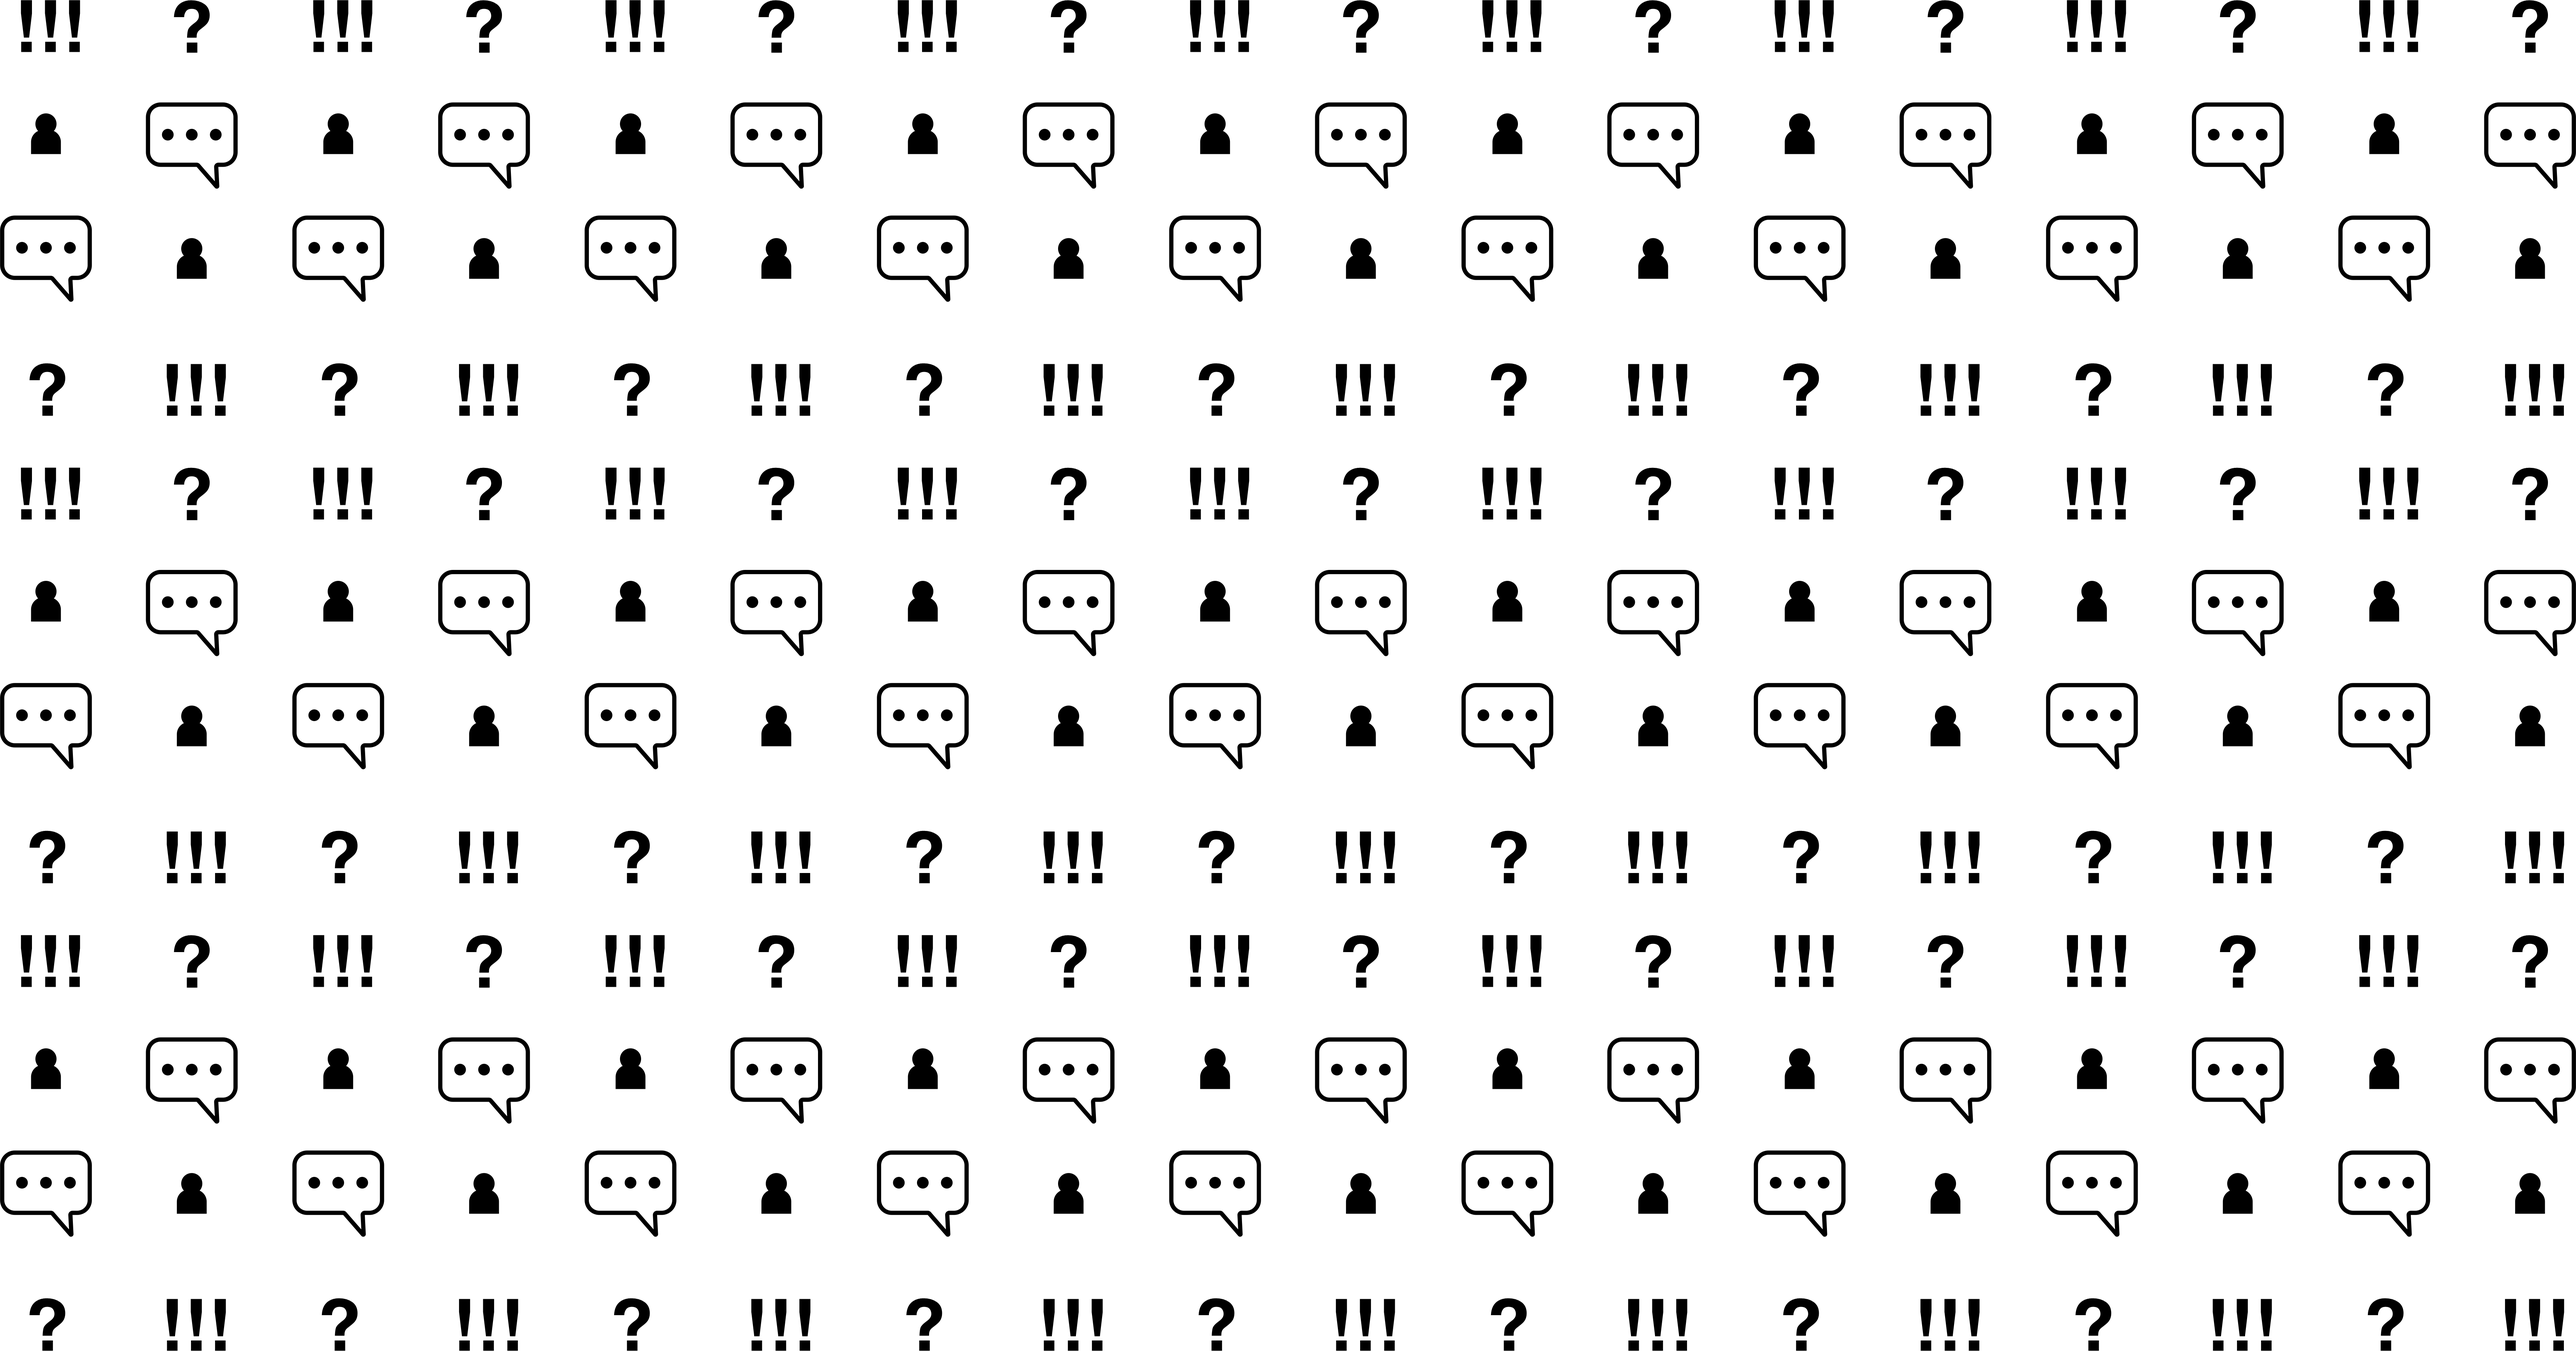
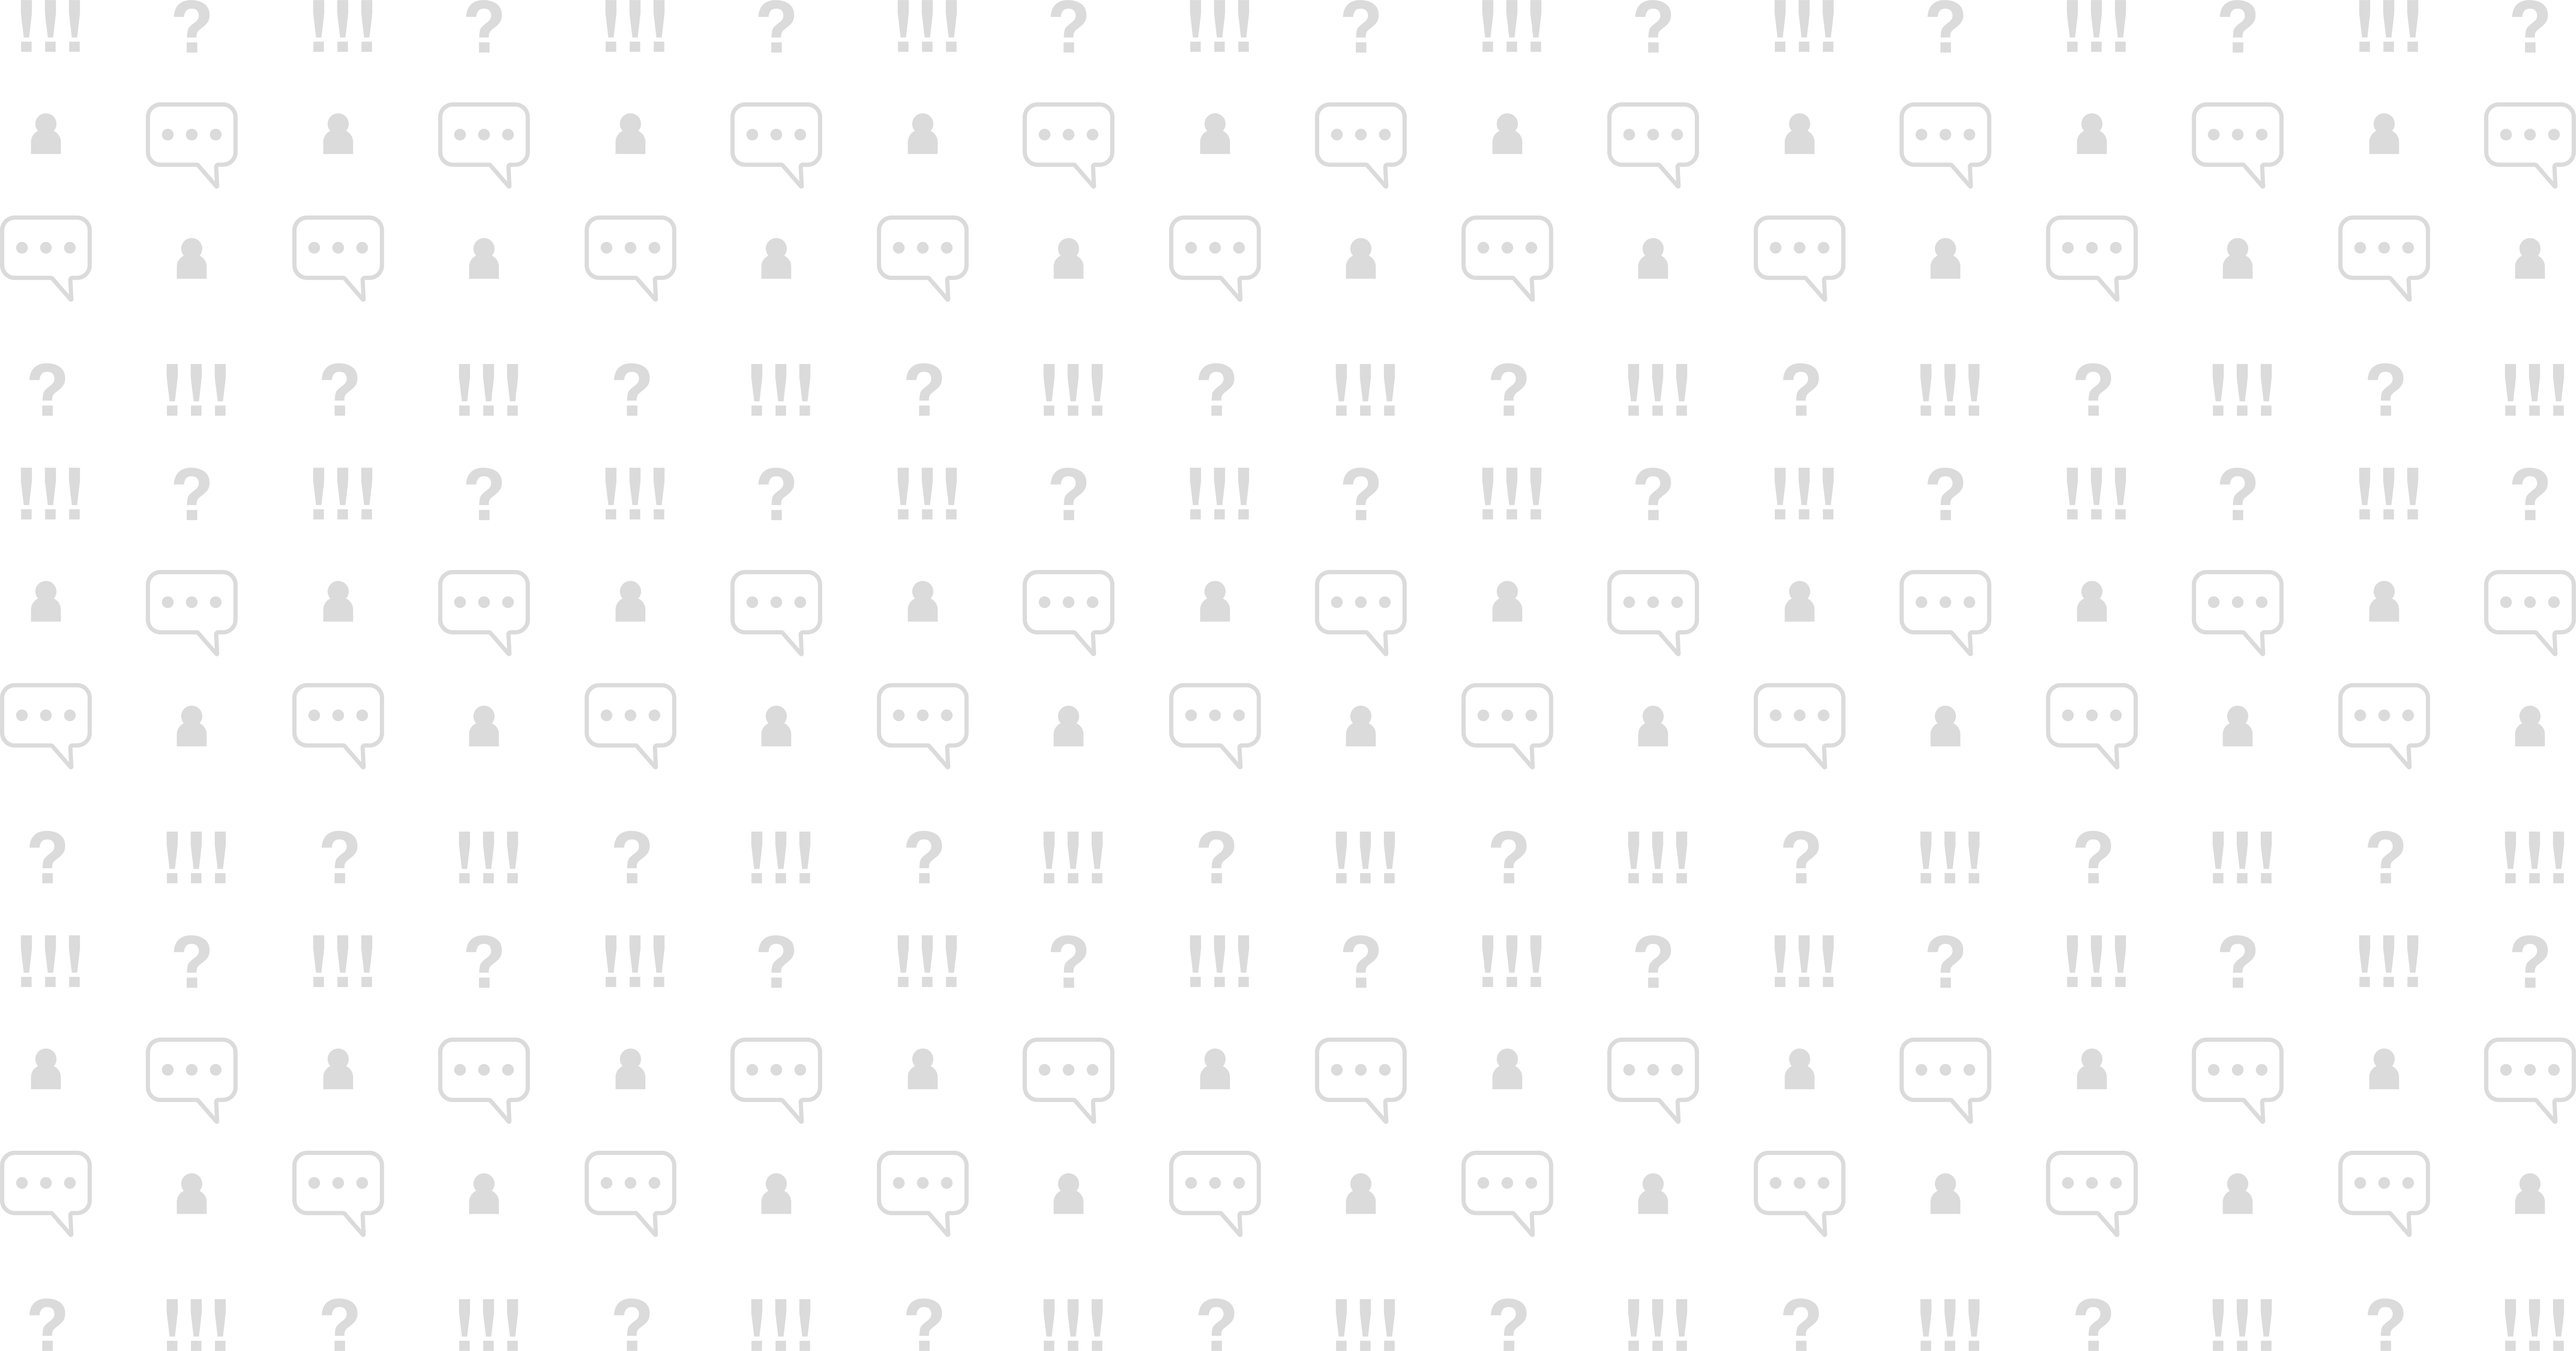
student bisa hapus post

diff --git a/App/assets/JS/script-feed.js b/App/assets/JS/script-feed.js
@@ -212,7 +212,7 @@ function attachEventListeners() {
 // ============================================
 function createPostHTML(post) {
     return `
-        <div class="post-card" data-post-id="${post.id}" data-is-owner="${post.is_owner || false}">
+        <div class="post-card" data-post-id="${post.id}" data-is-owner="${post.is_owner === true ? 'true' : 'false'}">
             <div class="post-header-container">
                 <div class="post-header">
                     <div class="post-user-info">
@@ -701,7 +701,8 @@ async function handleDeletePost(postId) {
             headers: { 'Content-Type': 'application/json' },
             body: JSON.stringify({ post_id: parseInt(postId) })
         });
-        const data = await res.json();
+        const text = await res.text();
+        const data = JSON.parse(text);
 
         if (data.success) {
             const card = document.querySelector(`.post-card[data-post-id="${postId}"]`);
@@ -715,7 +716,10 @@ async function handleDeletePost(postId) {
         } else {
             showFeedToast(data.message || 'Gagal menghapus.', 'error');
         }
-    } catch {
+    } catch (err) {
+        console.error('Delete error:', err);
+        console.error('Error message:', err.message);
+        console.error('Error stack:', err.stack);
         showFeedToast('Gagal menghubungi server.', 'error');
     }
 }

diff --git a/App/api/posts.php b/App/api/posts.php
@@ -213,16 +213,17 @@ if ($method === 'GET') {
 
     // Query utama
     $list_sql = "
-        SELECT
-            p.id,
-            p.title,
-            p.description,
-            p.category,
-            p.image_url,
-            p.is_anonymous,
-            p.status,
-            p.created_at,
-            s.username,
+    SELECT
+        p.id,
+        p.student_id,
+        p.title,
+        p.description,
+        p.category,
+        p.image_url,
+        p.is_anonymous,
+        p.status,
+        p.created_at,
+        s.username,
             COALESCE(vt.upvotes,   0) AS upvotes,
             COALESCE(vt.downvotes, 0) AS downvotes,
             COALESCE(ct.total,     0) AS comments_count,
@@ -275,7 +276,9 @@ if ($method === 'GET') {
         $post['comments'] = $post['comments_count'];
         $post['imageUrl'] = $post['image_url'];
         $post['hasImage'] = !empty($post['image_url']);
+        $post['is_owner'] = ($student_id > 0 && (int) $post['student_id'] === $student_id);
     }
+
 
     respond(200, [
         'success' => true,
@@ -475,5 +478,57 @@ if ($method === 'POST') {
     ]);
 }
 
+// ============================================================
+// DELETE - Hapus post
+// Bisa dilakukan oleh owner (student) atau admin
+// ============================================================
+if ($method === 'DELETE') {
+    $body = json_decode(file_get_contents('php://input'), true);
+    $post_id = (int) ($body['post_id'] ?? 0);
+
+    if ($post_id <= 0) {
+        respond(400, ['success' => false, 'message' => 'post_id tidak valid.']);
+    }
+
+    $student = $_SESSION['student'] ?? null;
+    $admin = $_SESSION['admin'] ?? null;
+
+    if (!$student && !$admin) {
+        respond(401, ['success' => false, 'message' => 'Kamu harus login dulu.']);
+    }
+
+    // Ambil data post
+    $stmt = $conn->prepare('SELECT id, student_id, image_url FROM posts WHERE id = ? LIMIT 1');
+    $stmt->bind_param('i', $post_id);
+    $stmt->execute();
+    $post = $stmt->get_result()->fetch_assoc();
+
+    if (!$post) {
+        respond(404, ['success' => false, 'message' => 'Post tidak ditemukan.']);
+    }
+
+    // Cek izin — hanya owner atau admin
+    if ($student && (int) $post['student_id'] !== (int) $student['id']) {
+        respond(403, ['success' => false, 'message' => 'Kamu tidak punya izin menghapus post ini.']);
+    }
+
+    // Hapus file gambar kalau ada
+    if (!empty($post['image_url'])) {
+        $filePath = __DIR__ . '/../' . ltrim($post['image_url'], '../');
+        if (file_exists($filePath)) {
+            unlink($filePath);
+        }
+    }
+
+    // Hapus post — cascade akan hapus votes, comments, notif otomatis
+    $del = $conn->prepare('DELETE FROM posts WHERE id = ?');
+    $del->bind_param('i', $post_id);
+
+    if (!$del->execute()) {
+        respond(500, ['success' => false, 'message' => 'Gagal menghapus post.']);
+    }
+
+    respond(200, ['success' => true, 'message' => 'Post berhasil dihapus.']);
+}
 // Kalau method selain GET/POST
 respond(405, ['success' => false, 'message' => 'Method tidak diizinkan.']);

diff --git a/App/students/feed.php b/App/students/feed.php
@@ -130,7 +130,7 @@ function getInitials(string $name): string
         </div>
     </div>
 
-    <script src="../assets/JS/script-feed.js?v=8"></script>
+    <script src="../assets/JS/script-feed.js?v=9"></script>
 </body>
 
 </html>
